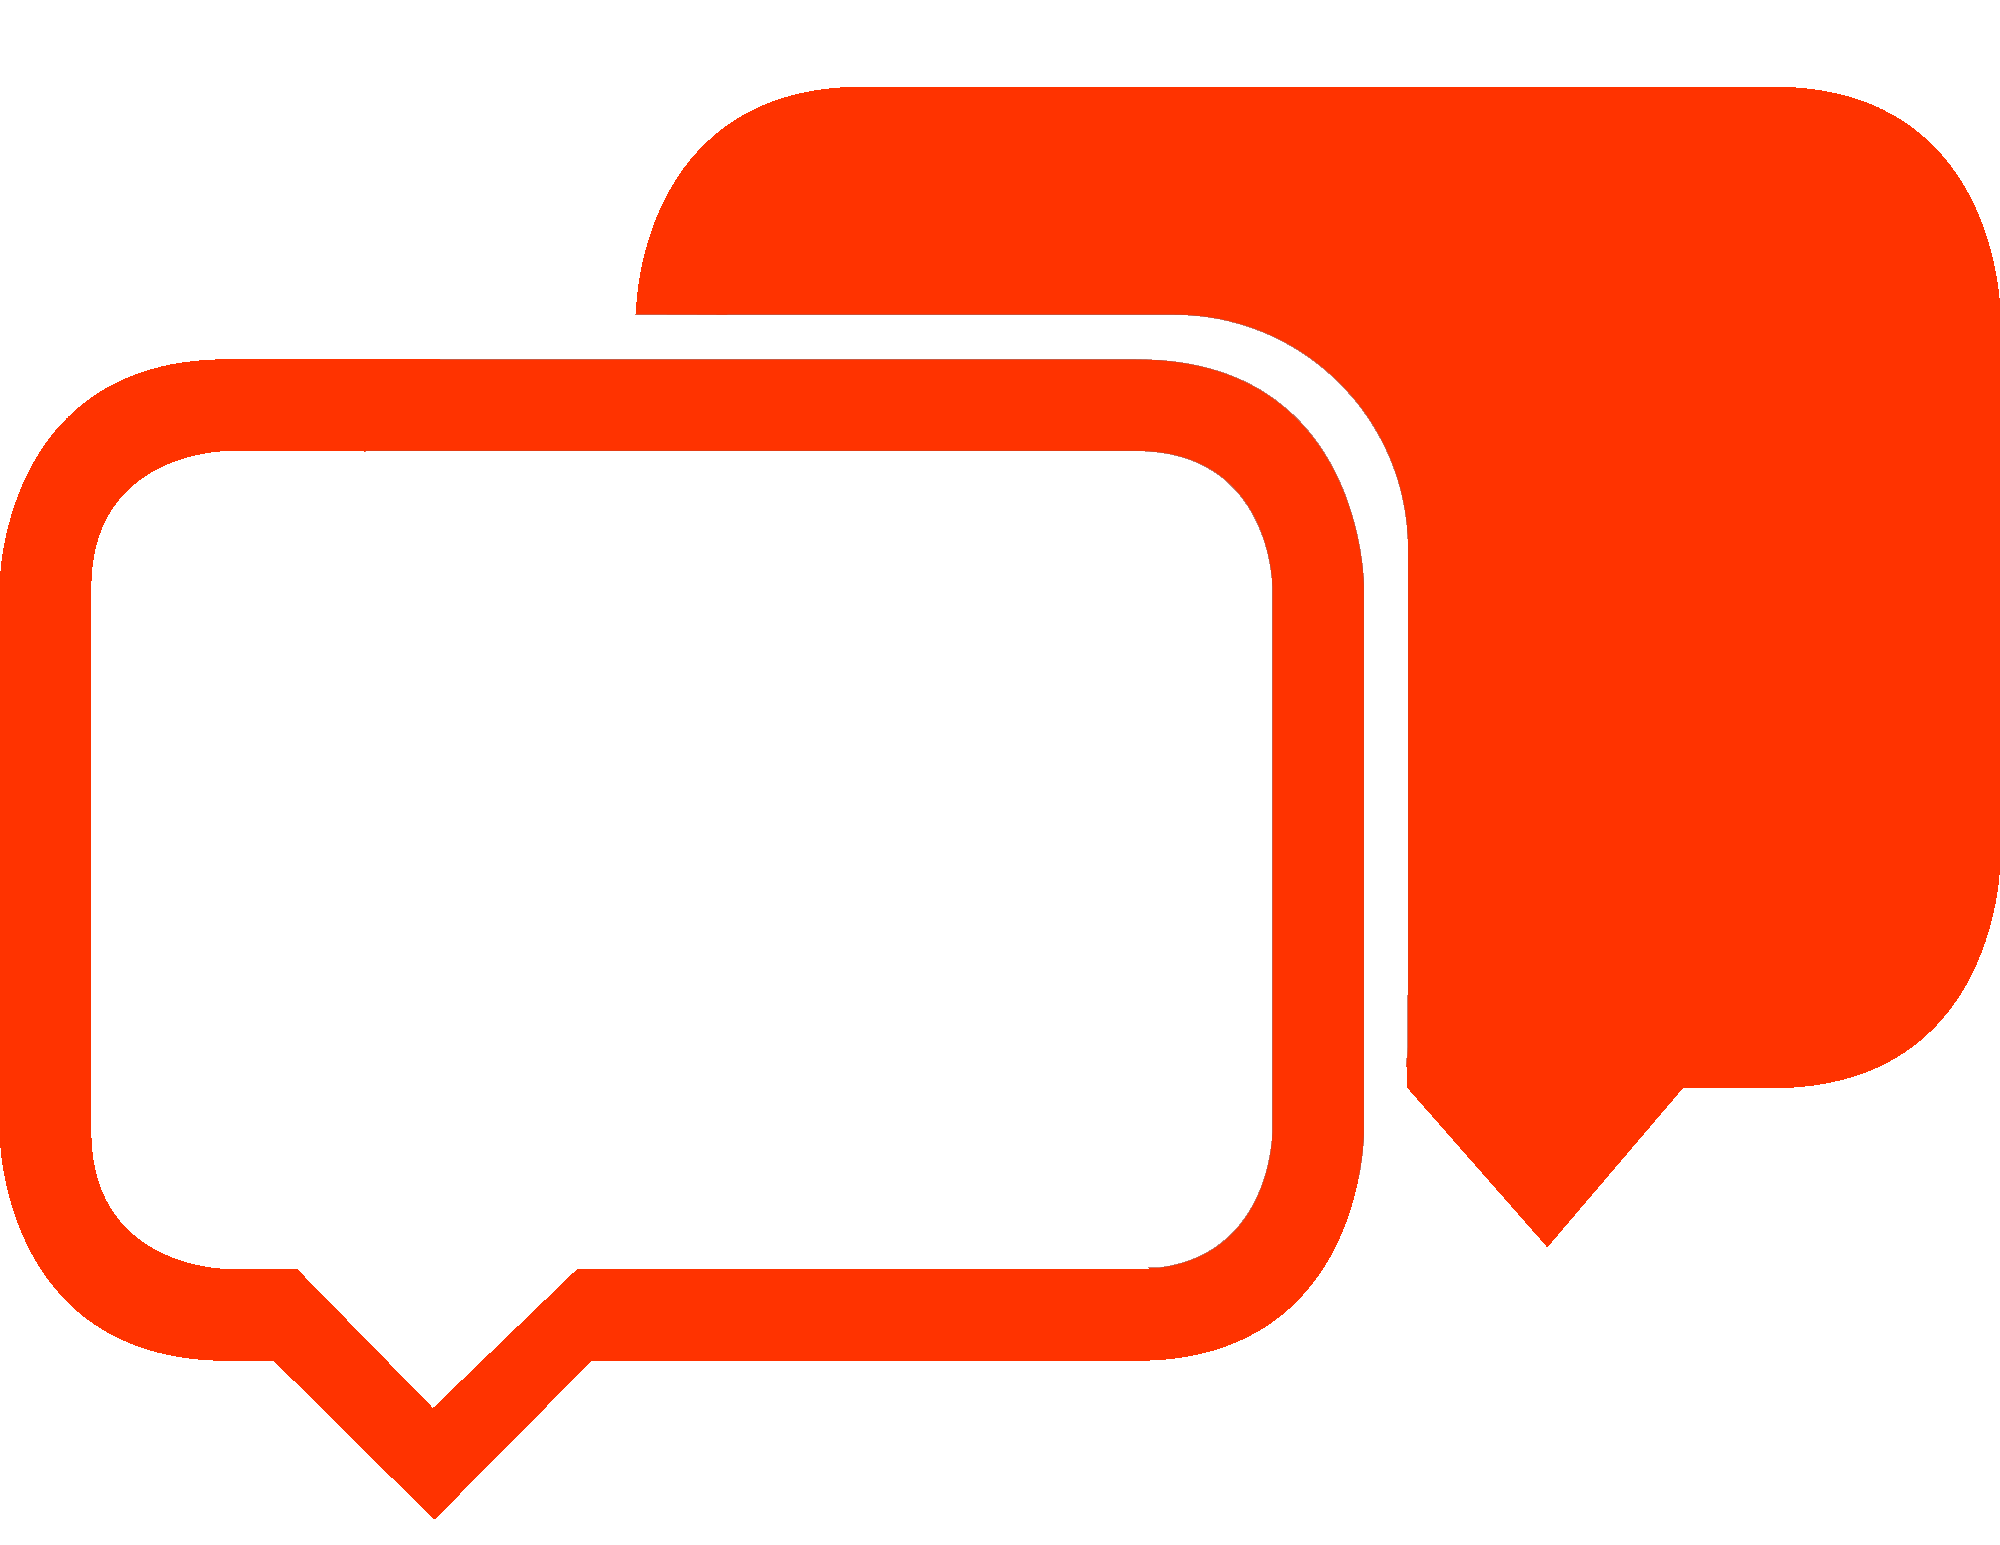
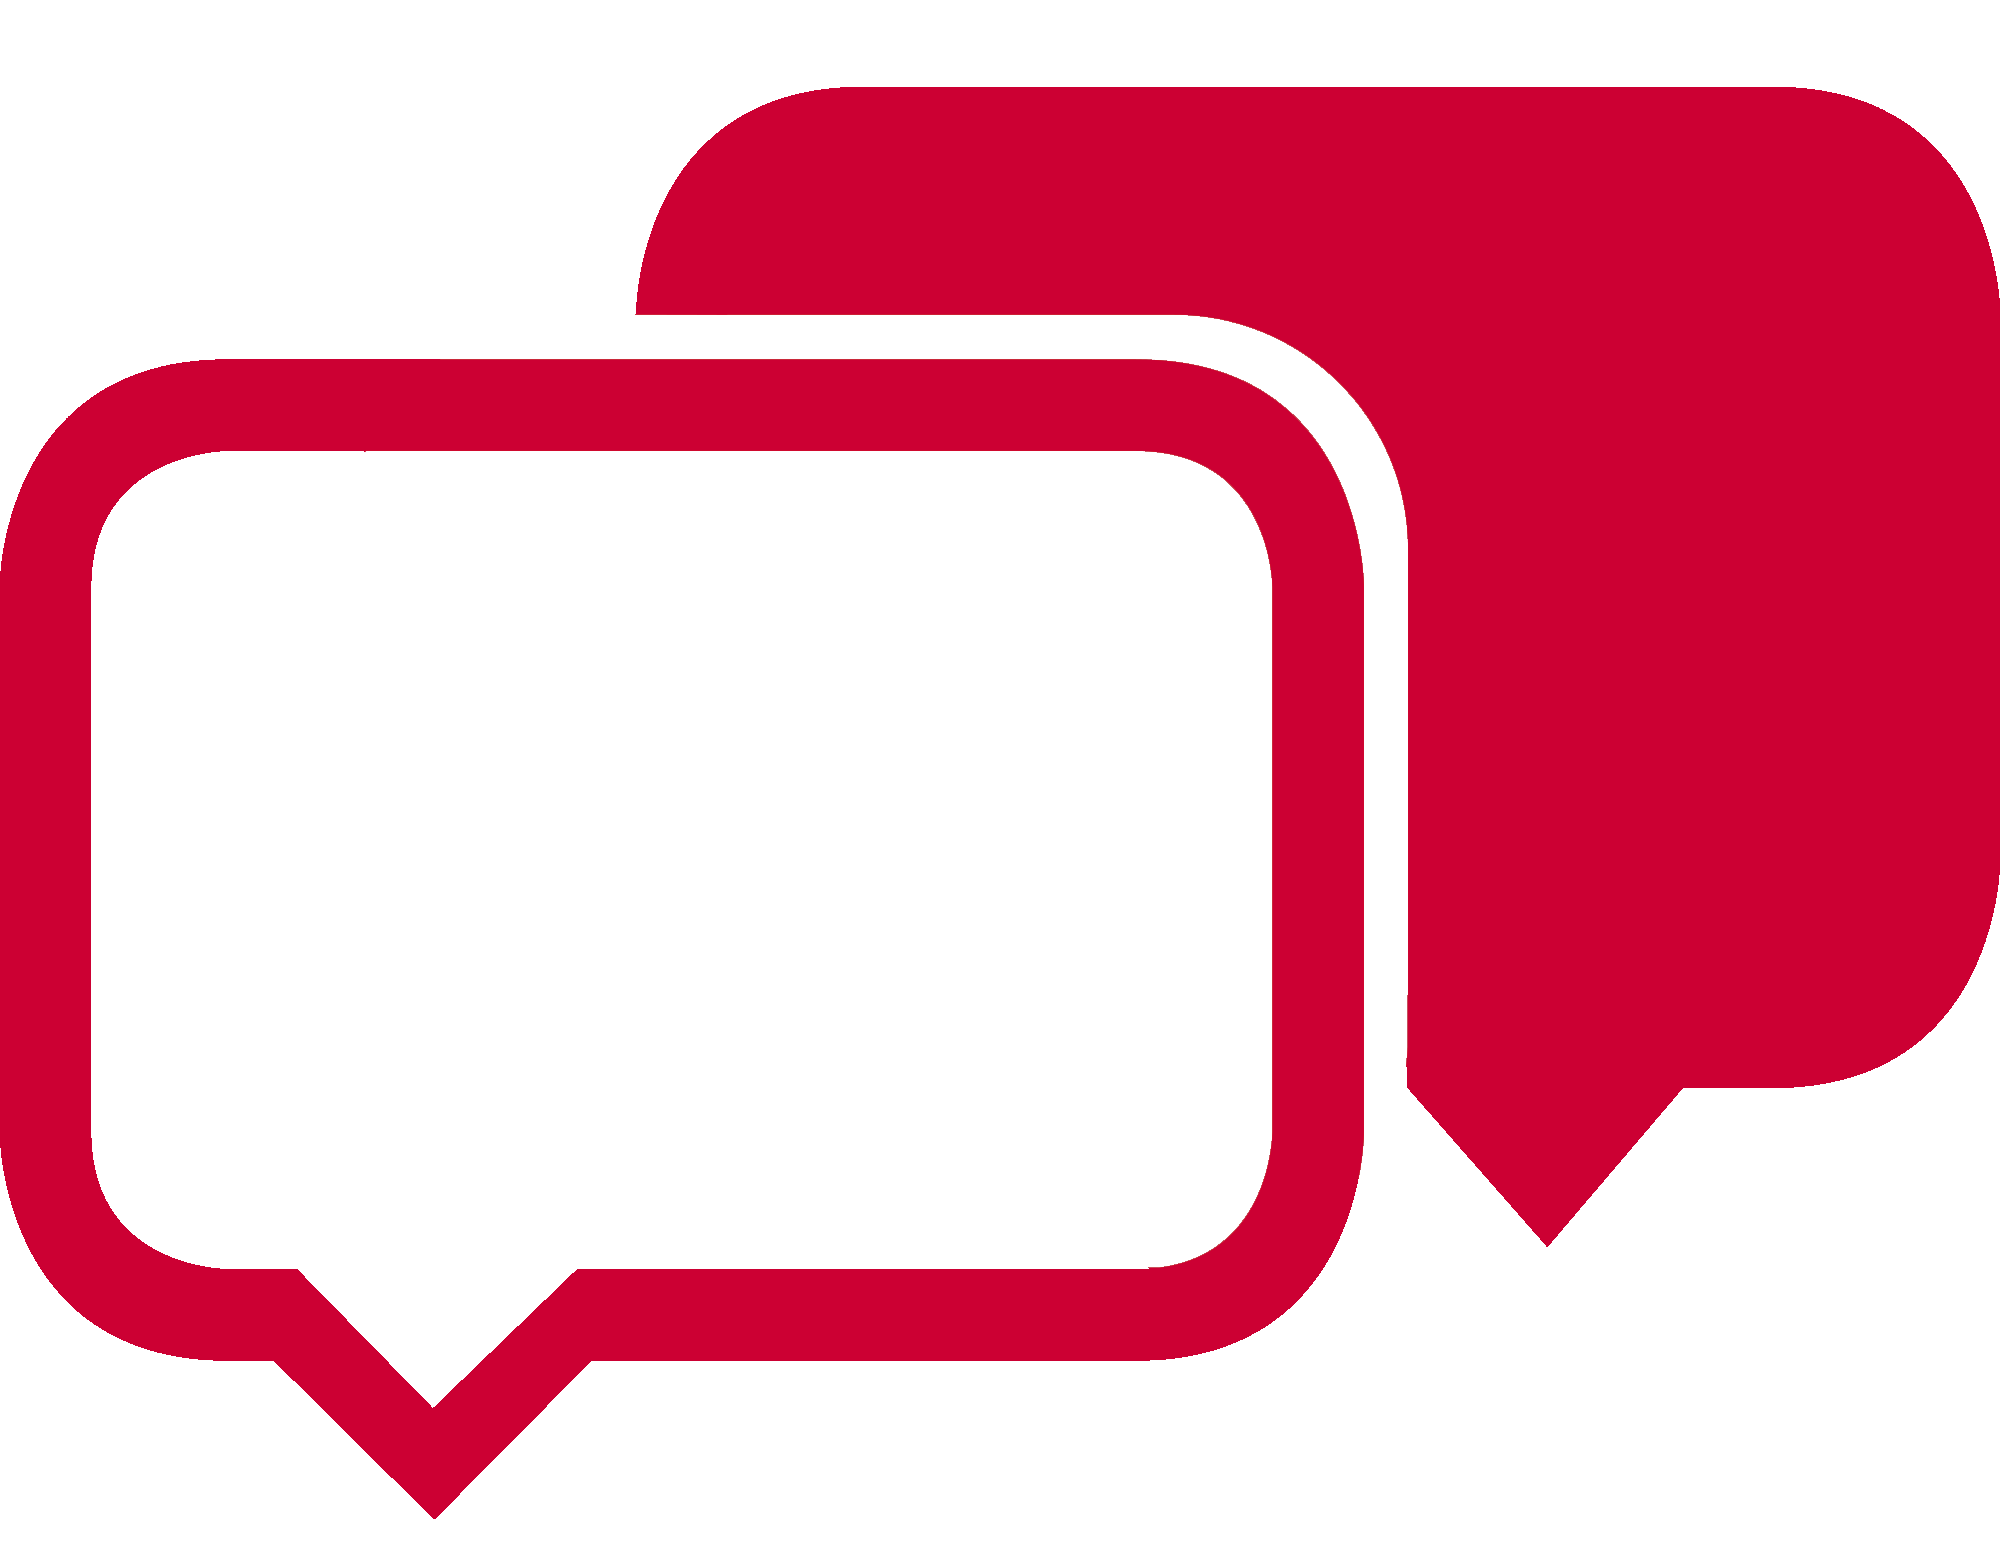
Finished styling the links in the body. Still need to  figure out the navigation panel.

diff --git a/docs/intro.html b/docs/intro.html
@@ -129,7 +129,7 @@ Figure 1: A diagram illustrating the flow of data from initial collection to sto
 			<td valign="top"><strong>DISCUSSION POSTING RULES AND GUIDELINES</strong>
 			<br />
 			<OL>
-				<LI>Please keep your posts focused upon the content of the report. The purpose of these discussions is to critically evaluate the data, analysis, and conclusion presented. You can find additional guidance for your posts <strong><a href="http://www.ferris.edu/HTMLS/academics/general-education/evidence/discussion_guide.pdf">here</a></strong>.</LI>
+				<LI>Please keep your posts focused upon the content of the report. The purpose of these discussions is to critically evaluate the data, analysis, and conclusion presented. You can find additional guidance for your posts <a href="http://www.ferris.edu/HTMLS/academics/general-education/evidence/discussion_guide.pdf">here</a>.</LI>
 				<LI>Disagreements are fine, but insults are not. Please keep your posts collegial and professional (the world is watching).</LI>
 				<LI>Inappropriate comments may be deleted and disruptive posters may be blocked at the moderator's discretion.</LI>
 			</OL></td>

diff --git a/docs/results.html b/docs/results.html
@@ -224,7 +224,7 @@ Figure 4: A forest plot of the average scores for each semester with a weighted 
 			<td valign="top"><strong>DISCUSSION POSTING RULES AND GUIDELINES</strong>
 			<br />
 			<OL>
-				<LI>Please keep your posts focused upon the content of the report. The purpose of these discussions is to critically evaluate the data, analysis, and conclusion presented. You can find additional guidance for your posts <strong><a href="http://www.ferris.edu/HTMLS/academics/general-education/evidence/discussion_guide.pdf">here</a></strong>.</LI>
+				<LI>Please keep your posts focused upon the content of the report. The purpose of these discussions is to critically evaluate the data, analysis, and conclusion presented. You can find additional guidance for your posts <a href="http://www.ferris.edu/HTMLS/academics/general-education/evidence/discussion_guide.pdf">here</a>.</LI>
 				<LI>Disagreements are fine, but insults are not. Please keep your posts collegial and professional (the world is watching).</LI>
 				<LI>Inappropriate comments may be deleted and disruptive posters may be blocked at the moderator's discretion.</LI>
 			</OL></td>

diff --git a/docs/discussion.html b/docs/discussion.html
@@ -157,7 +157,7 @@ Figure 5: Results of the faculty survey (n=12)
 			<td valign="top"><strong>DISCUSSION POSTING RULES AND GUIDELINES</strong>
 			<br />
 			<OL>
-				<LI>Please keep your posts focused upon the content of the report. The purpose of these discussions is to critically evaluate the data, analysis, and conclusion presented. You can find additional guidance for your posts <strong><a href="http://www.ferris.edu/HTMLS/academics/general-education/evidence/discussion_guide.pdf">here</a></strong>.</LI>
+				<LI>Please keep your posts focused upon the content of the report. The purpose of these discussions is to critically evaluate the data, analysis, and conclusion presented. You can find additional guidance for your posts <a href="http://www.ferris.edu/HTMLS/academics/general-education/evidence/discussion_guide.pdf">here</a>.</LI>
 				<LI>Disagreements are fine, but insults are not. Please keep your posts collegial and professional (the world is watching).</LI>
 				<LI>Inappropriate comments may be deleted and disruptive posters may be blocked at the moderator's discretion.</LI>
 			</OL></td>

diff --git a/docs/index.html b/docs/index.html
@@ -136,7 +136,7 @@
 			<td valign="top"><strong>DISCUSSION POSTING RULES AND GUIDELINES</strong>
 			<br />
 			<OL>
-				<LI>Please keep your posts focused upon the content of the report. The purpose of these discussions is to critically evaluate the data, analysis, and conclusion presented. You can find additional guidance for your posts <strong><a href="http://www.ferris.edu/HTMLS/academics/general-education/evidence/discussion_guide.pdf">here</a></strong>.</LI>
+				<LI>Please keep your posts focused upon the content of the report. The purpose of these discussions is to critically evaluate the data, analysis, and conclusion presented. You can find additional guidance for your posts <a href="http://www.ferris.edu/HTMLS/academics/general-education/evidence/discussion_guide.pdf">here</a>.</LI>
 				<LI>Disagreements are fine, but insults are not. Please keep your posts collegial and professional (the world is watching).</LI>
 				<LI>Inappropriate comments may be deleted and disruptive posters may be blocked at the moderator's discretion.</LI>
 			</OL></td>

diff --git a/docs/methods.html b/docs/methods.html
@@ -198,7 +198,7 @@
 			<td valign="top"><strong>DISCUSSION POSTING RULES AND GUIDELINES</strong>
 			<br />
 			<OL>
-				<LI>Please keep your posts focused upon the content of the report. The purpose of these discussions is to critically evaluate the data, analysis, and conclusion presented. You can find additional guidance for your posts <strong><a href="http://www.ferris.edu/HTMLS/academics/general-education/evidence/discussion_guide.pdf">here</a></strong>.</LI>
+				<LI>Please keep your posts focused upon the content of the report. The purpose of these discussions is to critically evaluate the data, analysis, and conclusion presented. You can find additional guidance for your posts <a href="http://www.ferris.edu/HTMLS/academics/general-education/evidence/discussion_guide.pdf">here</a>.</LI>
 				<LI>Disagreements are fine, but insults are not. Please keep your posts collegial and professional (the world is watching).</LI>
 				<LI>Inappropriate comments may be deleted and disruptive posters may be blocked at the moderator's discretion.</LI>
 			</OL></td>

diff --git a/docs/references.html b/docs/references.html
@@ -166,7 +166,7 @@
 			<td valign="top"><strong>DISCUSSION POSTING RULES AND GUIDELINES</strong>
 			<br />
 			<OL>
-				<LI>Please keep your posts focused upon the content of the report. The purpose of these discussions is to critically evaluate the data, analysis, and conclusion presented. You can find additional guidance for your posts <strong><a href="http://www.ferris.edu/HTMLS/academics/general-education/evidence/discussion_guide.pdf">here</a></strong>.</LI>
+				<LI>Please keep your posts focused upon the content of the report. The purpose of these discussions is to critically evaluate the data, analysis, and conclusion presented. You can find additional guidance for your posts <a href="http://www.ferris.edu/HTMLS/academics/general-education/evidence/discussion_guide.pdf">here</a>.</LI>
 				<LI>Disagreements are fine, but insults are not. Please keep your posts collegial and professional (the world is watching).</LI>
 				<LI>Inappropriate comments may be deleted and disruptive posters may be blocked at the moderator's discretion.</LI>
 			</OL></td>

diff --git a/disqus.html b/disqus.html
@@ -4,7 +4,7 @@
 			<td valign="top"><strong>DISCUSSION POSTING RULES AND GUIDELINES</strong>
 			<br />
 			<OL>
-				<LI>Please keep your posts focused upon the content of the report. The purpose of these discussions is to critically evaluate the data, analysis, and conclusion presented. You can find additional guidance for your posts <strong><a href="http://www.ferris.edu/HTMLS/academics/general-education/evidence/discussion_guide.pdf">here</a></strong>.</LI>
+				<LI>Please keep your posts focused upon the content of the report. The purpose of these discussions is to critically evaluate the data, analysis, and conclusion presented. You can find additional guidance for your posts <a href="http://www.ferris.edu/HTMLS/academics/general-education/evidence/discussion_guide.pdf">here</a>.</LI>
 				<LI>Disagreements are fine, but insults are not. Please keep your posts collegial and professional (the world is watching).</LI>
 				<LI>Inappropriate comments may be deleted and disruptive posters may be blocked at the moderator's discretion.</LI>
 			</OL></td>

diff --git a/docs/style.css b/docs/style.css
@@ -18,16 +18,17 @@ blockquote p {
 	display: inline;
 }
 
-.normal a:link {
-    color: #FF3300;
+.book .book-body .page-wrapper .page-inner section.normal a:link {
+    color: #CC0033;
 }
-.normal a:visited {
-    color: #FF3300;
+.book .book-body .page-wrapper .page-inner section.normal a:visited {
+    color: #CC0033;
 }
-.normal a:hover {
-    color: #FF3300;
+.book .book-body .page-wrapper .page-inner section.normal a:hover {
+    text-decoration: underline;
     font-weight: bold;
+    color: #CC0033;
 }
-.normal a:active {
-    color: #FF3300;
+.book .book-body .page-wrapper .page-inner section.normal a:active {
+    color: #CC0033;
 }

diff --git a/style.css b/style.css
@@ -18,16 +18,17 @@ blockquote p {
 	display: inline;
 }
 
-.normal a:link {
-    color: #FF3300;
+.book .book-body .page-wrapper .page-inner section.normal a:link {
+    color: #CC0033;
 }
-.normal a:visited {
-    color: #FF3300;
+.book .book-body .page-wrapper .page-inner section.normal a:visited {
+    color: #CC0033;
 }
-.normal a:hover {
-    color: #FF3300;
+.book .book-body .page-wrapper .page-inner section.normal a:hover {
+    text-decoration: underline;
     font-weight: bold;
+    color: #CC0033;
 }
-.normal a:active {
-    color: #FF3300;
+.book .book-body .page-wrapper .page-inner section.normal a:active {
+    color: #CC0033;
 }
